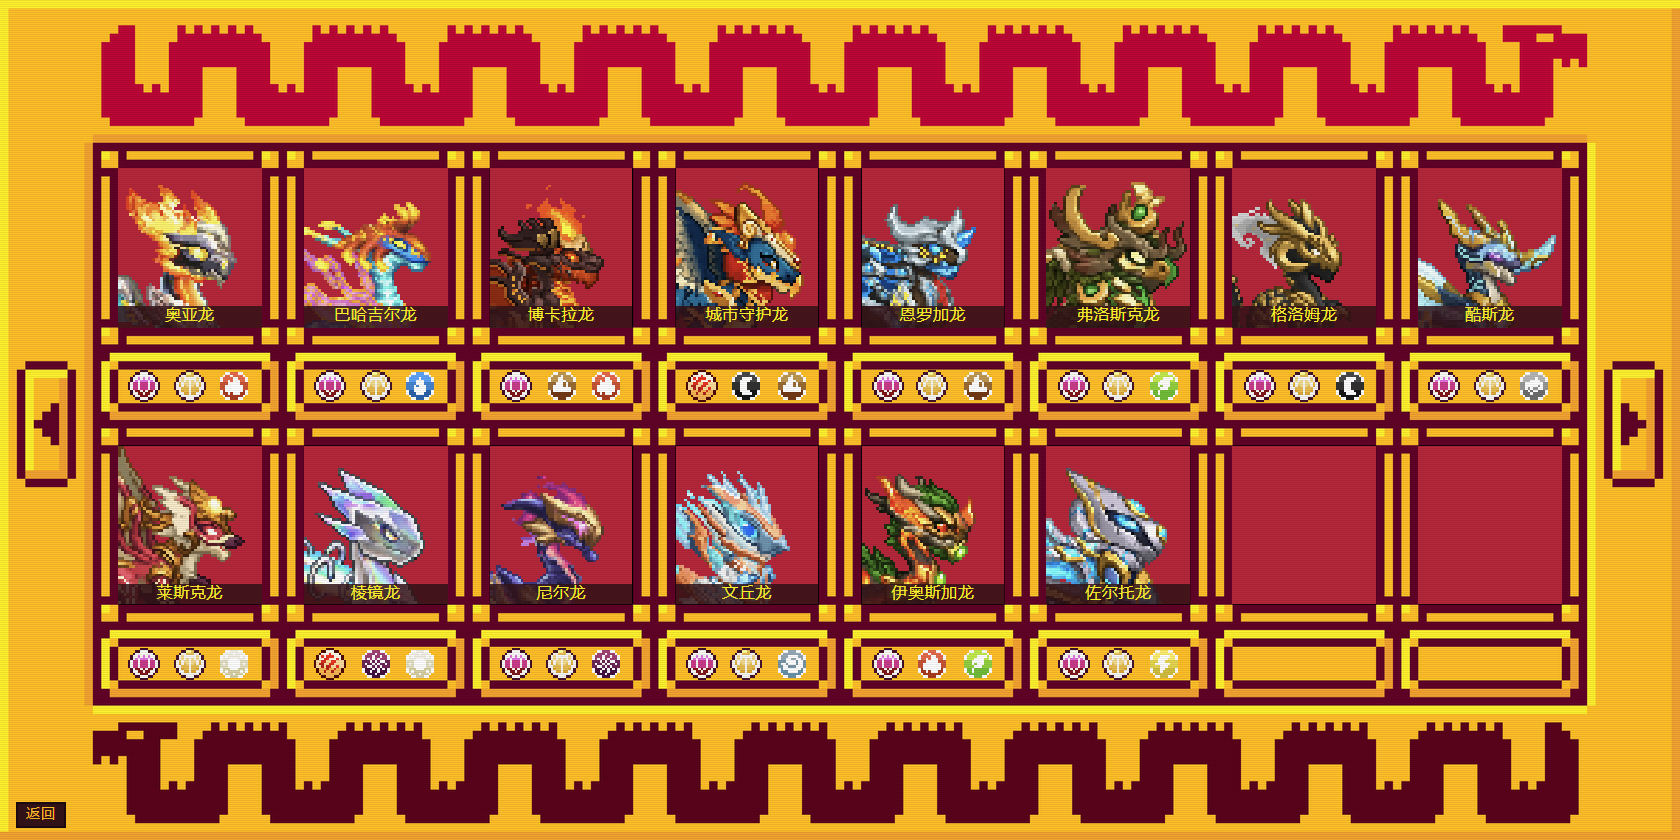
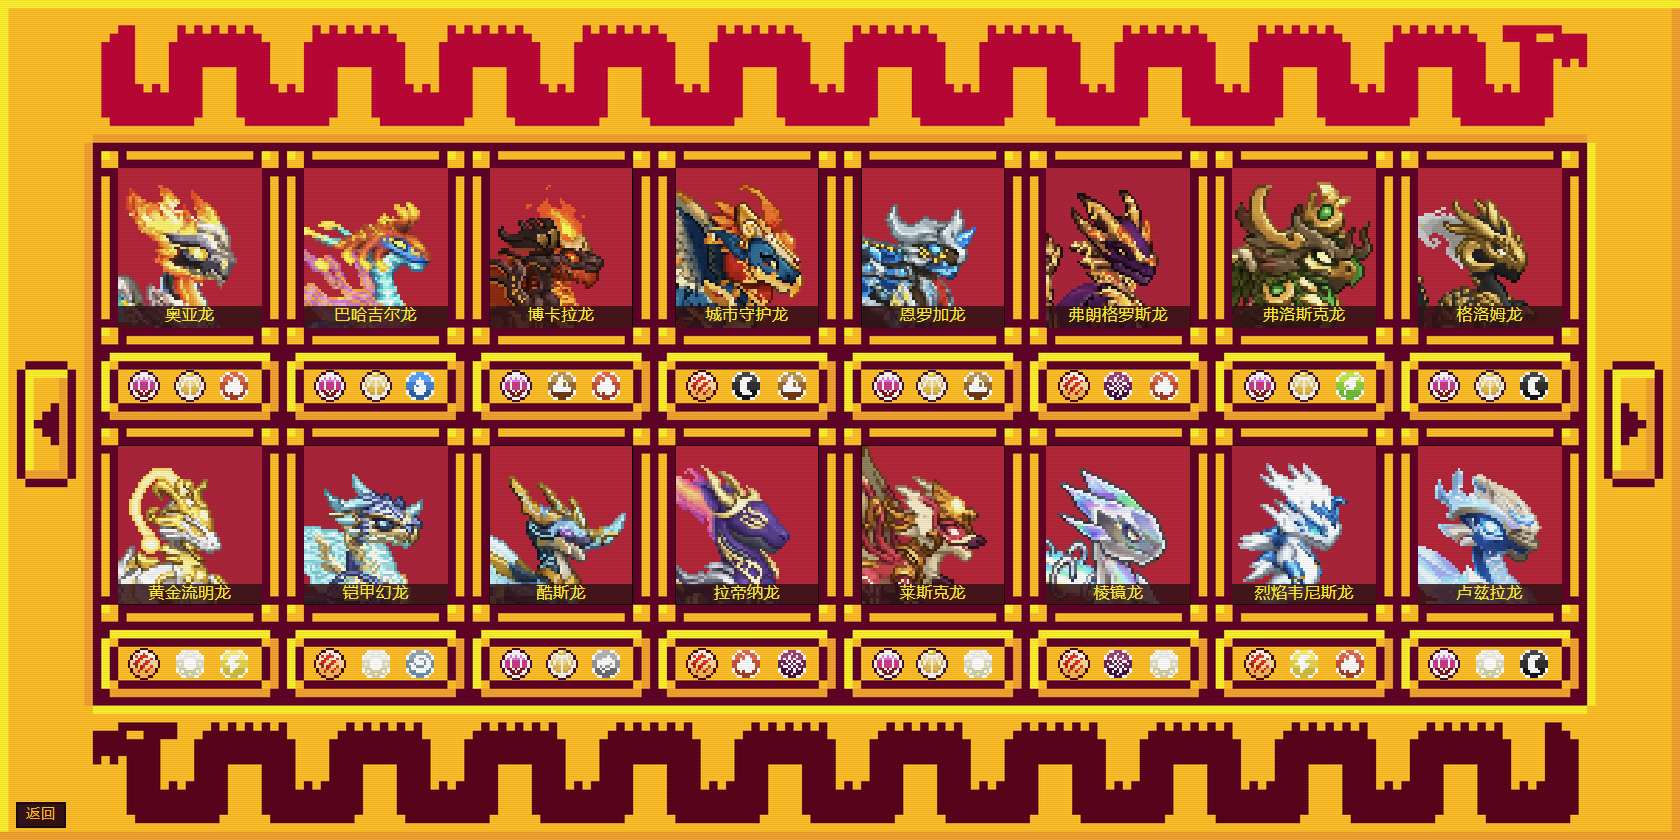
feat: 新增 10 条龙 + 按数值表逐个校准角色属性
- 新增：卢兹拉龙/索尔登龙/米格拉龙/铠甲幻龙/拉帝纳龙/乌姆布拉龙/
  烈焰韦尼斯龙/弗朗格罗斯龙/黄金流明龙/伊克斯龙（头像 + 全身图已转像素资产）
- 图鉴共 24 条，按拼音排序，2 页（第二页 8 个角色 + 8 个空位）
- 新增 src/data/stats.js：24 条龙各自的 100 级血量/攻击，直接取自数值对照表
- 曲线改为以 100 级为锚点：数值(L)=数值(100)×1.2^(L-100)，
  100 级与表 1:1 一致（24 条逐条比对全过），其它等级等比换算
- 图鉴支持 ?screen=guide&page=N
- 平衡：120 局胜率 76.7%，平均 6.5 回合

diff --git a/src/data/guide.js b/src/data/guide.js
@@ -1,27 +1,39 @@
 /* =========================================================
- * 图鉴数据
+ * 图鉴数据（同时也是管理界面的角色表）
  *
- * 每页 16 个窗口（8 列 × 2 行），空位显示「头像-空白」。
- * 排序：按名字拼音首字母（A → Z），暂时手工排好。
- * avatar 指向 assets/avatars/ 下的原生 51×57 像素图。
+ * 按名字拼音首字母排序（A → Z），暂时手工排好。
+ * avatar 指向 assets/avatars/ 下的原生 51×57 像素图，
+ * full   指向 assets/full/ 下的 420×420 全身图。
+ * level 是初始等级；血量 / 攻击按等级走成长曲线，
+ * 1 级基础值见 src/data/stats.js。
  * ========================================================= */
 const GUIDE_PER_PAGE = 16;
 
 const GUIDE_DEX = [
-  { name: '奥亚龙',     elements: ['ancient', 'holy', 'fire'],     avatar: 'assets/avatars/aoya.png', full: 'assets/full/aoya.png', level: 1 },
-  { name: '巴哈吉尔龙', elements: ['ancient', 'holy', 'water'],    avatar: 'assets/avatars/bahajier.png', full: 'assets/full/bahajier.png', level: 1 },
-  { name: '博卡拉龙',   elements: ['ancient', 'earth', 'fire'],    avatar: 'assets/avatars/bokara.png', full: 'assets/full/bokara.png', level: 100 },
-  { name: '城市守护龙', elements: ['overlord', 'dark', 'earth'],   avatar: 'assets/avatars/city.png', full: 'assets/full/city.png', level: 100 },
-  { name: '恩罗加龙',   elements: ['ancient', 'holy', 'earth'],    avatar: 'assets/avatars/enluojia.png', full: 'assets/full/enluojia.png', level: 1 },
-  { name: '弗洛斯克龙', elements: ['ancient', 'holy', 'grass'],    avatar: 'assets/avatars/fuluosike.png', full: 'assets/full/fuluosike.png', level: 1 },
-  { name: '格洛姆龙',   elements: ['ancient', 'holy', 'dark'],     avatar: 'assets/avatars/geluomu.png', full: 'assets/full/geluomu.png', level: 1 },
-  { name: '酷斯龙',     elements: ['ancient', 'holy', 'steel'],    avatar: 'assets/avatars/kusu.png', full: 'assets/full/kusu.png', level: 100 },
-  { name: '莱斯克龙',   elements: ['ancient', 'holy', 'light'],    avatar: 'assets/avatars/laiske.png', full: 'assets/full/laiske.png', level: 100 },
-  { name: '棱镜龙',     elements: ['overlord', 'void', 'light'],   avatar: 'assets/avatars/prism.png', full: 'assets/full/prism.png', level: 100 },
-  { name: '尼尔龙',     elements: ['ancient', 'holy', 'void'],     avatar: 'assets/avatars/nier.png', full: 'assets/full/nier.png', level: 1 },
-  { name: '文丘龙',     elements: ['ancient', 'holy', 'breeze'],   avatar: 'assets/avatars/wenqiu.png', full: 'assets/full/wenqiu.png', level: 1 },
-  { name: '伊奥斯加龙', elements: ['ancient', 'fire', 'grass'],    avatar: 'assets/avatars/yiao.png', full: 'assets/full/yiao.png', level: 100 },
-  { name: '佐尔托龙',   elements: ['ancient', 'holy', 'electric'], avatar: 'assets/avatars/zuoerto.png', full: 'assets/full/zuoerto.png', level: 1 },
+  { name: '奥亚龙',       elements: ['ancient', 'holy', 'fire'],       avatar: 'assets/avatars/aoya.png',            full: 'assets/full/aoya.png',            level: 100 },
+  { name: '巴哈吉尔龙',   elements: ['ancient', 'holy', 'water'],      avatar: 'assets/avatars/bahajier.png',        full: 'assets/full/bahajier.png',        level: 100 },
+  { name: '博卡拉龙',     elements: ['ancient', 'earth', 'fire'],      avatar: 'assets/avatars/bokara.png',          full: 'assets/full/bokara.png',          level: 100 },
+  { name: '城市守护龙',   elements: ['overlord', 'dark', 'earth'],     avatar: 'assets/avatars/city.png',            full: 'assets/full/city.png',            level: 100 },
+  { name: '恩罗加龙',     elements: ['ancient', 'holy', 'earth'],      avatar: 'assets/avatars/enluojia.png',        full: 'assets/full/enluojia.png',        level: 100 },
+  { name: '弗朗格罗斯龙', elements: ['overlord', 'void', 'fire'],      avatar: 'assets/avatars/fulanggeluosi.png',   full: 'assets/full/fulanggeluosi.png',   level: 100 },
+  { name: '弗洛斯克龙',   elements: ['ancient', 'holy', 'grass'],      avatar: 'assets/avatars/fuluosike.png',       full: 'assets/full/fuluosike.png',       level: 100 },
+  { name: '格洛姆龙',     elements: ['ancient', 'holy', 'dark'],       avatar: 'assets/avatars/geluomu.png',         full: 'assets/full/geluomu.png',         level: 100 },
+  { name: '黄金流明龙',   elements: ['overlord', 'light', 'electric'], avatar: 'assets/avatars/huangjinliuming.png', full: 'assets/full/huangjinliuming.png', level: 100 },
+  { name: '铠甲幻龙',     elements: ['overlord', 'light', 'breeze'],   avatar: 'assets/avatars/kaijiahuan.png',      full: 'assets/full/kaijiahuan.png',      level: 100 },
+  { name: '酷斯龙',       elements: ['ancient', 'holy', 'steel'],      avatar: 'assets/avatars/kusu.png',            full: 'assets/full/kusu.png',            level: 100 },
+  { name: '拉帝纳龙',     elements: ['overlord', 'fire', 'void'],      avatar: 'assets/avatars/ladina.png',          full: 'assets/full/ladina.png',          level: 100 },
+  { name: '莱斯克龙',     elements: ['ancient', 'holy', 'light'],      avatar: 'assets/avatars/laiske.png',          full: 'assets/full/laiske.png',          level: 100 },
+  { name: '棱镜龙',       elements: ['overlord', 'void', 'light'],     avatar: 'assets/avatars/prism.png',           full: 'assets/full/prism.png',           level: 100 },
+  { name: '烈焰韦尼斯龙', elements: ['overlord', 'electric', 'fire'],  avatar: 'assets/avatars/lieyanweinisi.png',   full: 'assets/full/lieyanweinisi.png',   level: 100 },
+  { name: '卢兹拉龙',     elements: ['ancient', 'light', 'dark'],      avatar: 'assets/avatars/luzila.png',          full: 'assets/full/luzila.png',          level: 100 },
+  { name: '米格拉龙',     elements: ['overlord', 'water', 'electric'], avatar: 'assets/avatars/migela.png',          full: 'assets/full/migela.png',          level: 100 },
+  { name: '尼尔龙',       elements: ['ancient', 'holy', 'void'],       avatar: 'assets/avatars/nier.png',            full: 'assets/full/nier.png',            level: 100 },
+  { name: '索尔登龙',     elements: ['ancient', 'earth', 'light'],     avatar: 'assets/avatars/suoerdeng.png',       full: 'assets/full/suoerdeng.png',       level: 100 },
+  { name: '文丘龙',       elements: ['ancient', 'holy', 'breeze'],     avatar: 'assets/avatars/wenqiu.png',          full: 'assets/full/wenqiu.png',          level: 100 },
+  { name: '乌姆布拉龙',   elements: ['overlord', 'fire', 'electric'],  avatar: 'assets/avatars/wumubula.png',        full: 'assets/full/wumubula.png',        level: 100 },
+  { name: '伊奥斯加龙',   elements: ['ancient', 'fire', 'grass'],      avatar: 'assets/avatars/yiao.png',            full: 'assets/full/yiao.png',            level: 100 },
+  { name: '伊克斯龙',     elements: ['ancient', 'electric', 'fire'],   avatar: 'assets/avatars/yikesi.png',          full: 'assets/full/yikesi.png',          level: 100 },
+  { name: '佐尔托龙',     elements: ['ancient', 'holy', 'electric'],   avatar: 'assets/avatars/zuoerto.png',         full: 'assets/full/zuoerto.png',         level: 100 },
 ];
 
 const GUIDE_BLANK_AVATAR = 'assets/avatars/blank.png';

diff --git a/src/data/stats.js b/src/data/stats.js
@@ -1,0 +1,40 @@
+/* =========================================================
+ * 角色数值（100 级）
+ *
+ * 数据直接来自「数值对照表.txt」，每个角色一对 100 级血量/攻击。
+ * 其它等级由成长曲线换算：
+ *   数值(L) = 数值(100) × 1.2^(L-100)
+ *
+ * 曲线本身见 src/data/curve.js。
+ * ========================================================= */
+const CHAR_BASE = {
+  /* ---- 玩家可上阵的 6 条 ---- */
+  '酷斯龙':       { hp100: 20014343843, atk100: 6211348089 },
+  '博卡拉龙':     { hp100: 19945328865, atk100: 6142333110 },
+  '棱镜龙':       { hp100: 20359418737, atk100: 5866273195 },
+  '莱斯克龙':     { hp100: 20014343843, atk100: 6211348089 },
+  '伊奥斯加龙':   { hp100: 19945328865, atk100: 6142333110 },
+  '城市守护龙':   { hp100: 20566463673, atk100: 6211348089 },
+
+  /* ---- 第二批（8 条） ---- */
+  '佐尔托龙':     { hp100: 20014343843, atk100: 6211348089 },
+  '文丘龙':       { hp100: 20014343843, atk100: 6211348089 },
+  '巴哈吉尔龙':   { hp100: 20014343843, atk100: 6211348089 },
+  '恩罗加龙':     { hp100: 20014343843, atk100: 6211348089 },
+  '格洛姆龙':     { hp100: 20014343843, atk100: 6211348089 },
+  '弗洛斯克龙':   { hp100: 20014343843, atk100: 6211348089 },
+  '尼尔龙':       { hp100: 20014343843, atk100: 6211348089 },
+  '奥亚龙':       { hp100: 20014343843, atk100: 6211348089 },
+
+  /* ---- 第三批（10 条） ---- */
+  '卢兹拉龙':     { hp100: 19738283928, atk100: 5935288174 },
+  '索尔登龙':     { hp100: 19945328865, atk100: 6142333110 },
+  '米格拉龙':     { hp100: 19738283928, atk100: 6004303153 },
+  '铠甲幻龙':     { hp100: 20152373801, atk100: 5866273195 },
+  '拉帝纳龙':     { hp100: 19945328865, atk100: 6142333110 },
+  '乌姆布拉龙':   { hp100: 20221388780, atk100: 5935288174 },
+  '烈焰韦尼斯龙': { hp100: 19738283928, atk100: 6004303153 },
+  '弗朗格罗斯龙': { hp100: 20014343843, atk100: 5866273195 },
+  '黄金流明龙':   { hp100: 20014343843, atk100: 6004303153 },
+  '伊克斯龙':     { hp100: 19738283928, atk100: 5935288174 }
+};

diff --git a/src/data/curve.js b/src/data/curve.js
@@ -1,32 +1,36 @@
 /* =========================================================
  * 成长曲线
  *
- * 由「角色等级数值表」拟合得出：数值严格按 1.2 的等比增长
- *   数值(L) = 基础值 × 1.2^(L-1)
- * 拟合误差在 0.001% 以内（L10 那一行有取整噪声）。
+ * 由「等级数值表」拟合得出：数值严格按 1.2 的等比增长
+ *   数值(L) = 数值(100) × 1.2^(L-100)
  *
- * 表里两列同时命中同一条曲线：
- *   血量 1 级 255 → 100 级 17,598,819,586
- *   攻击 1 级  82 → 100 级  5,659,228,259
- * 攻血比恒为 3.1098，所以同级对局的击杀手数在任何等级都一样。
+ * 表里两列同时命中同一条曲线（拟合误差 < 0.001%）。
+ * 因为表给的是 100 级数据，这里直接以 100 级为锚点，
+ * 这样 100 级能 1:1 复现表里的数字，不用反推基础值。
  *
+ * 攻血比恒定在 3.1 左右，所以同级对局的击杀手数在任何等级都一样。
  * 注意：双精度整数上限 2^53 ≈ 9.0e15，本曲线到 Lv172 左右会溢出。
  * ========================================================= */
 const CURVE = {
-  hp1: 255,
-  atk1: 82,
   k: 1.2,
-  maxLevel: 170          /* 超过这个等级双精度会失真，先挡一下 */
+  refLevel: 100,
+  maxLevel: 170
 };
 
-function curveStat(base, level) {
+function curveValue(v100, level) {
   var lv = Math.max(1, Math.min(CURVE.maxLevel, Math.floor(level || 1)));
-  return Math.round(base * Math.pow(CURVE.k, lv - 1));
+  return Math.round(v100 * Math.pow(CURVE.k, lv - CURVE.refLevel));
 }
 
-function curveStats(level) {
+/* hp100 / atk100 传角色 100 级的血量与攻击 */
+function curveStats(level, hp100, atk100) {
   return {
-    hp: curveStat(CURVE.hp1, level),
-    atk: curveStat(CURVE.atk1, level)
+    hp: curveValue(hp100, level),
+    atk: curveValue(atk100, level)
   };
+}
+
+/* 从 1 级基础值算（等价写法，留作参考） */
+function curveStat(base1, level) {
+  return Math.round(base1 * Math.pow(CURVE.k, Math.max(1, level) - 1));
 }

diff --git a/src/engine/battle.js b/src/engine/battle.js
@@ -779,7 +779,10 @@ const Battle = (function () {
     const lv = (typeof PlayerState !== 'undefined')
       ? PlayerState.entry(tpl.name, tpl.level).level
       : tpl.level;
-    const cs = (typeof curveStats === 'function') ? curveStats(lv) : null;
+    const base = (typeof CHAR_BASE !== 'undefined') ? CHAR_BASE[tpl.name] : null;
+    const cs = (typeof curveStats === 'function')
+      ? curveStats(lv, base && base.hp100, base && base.atk100)
+      : null;
     return {
       uid: (side === 'ally' ? 'p' : 'e') + slot,
       side,

diff --git a/src/ui/guide.js b/src/ui/guide.js
@@ -83,8 +83,11 @@ const Guide = (function () {
     if (next) next.disabled = page >= pageCount() - 1;
   }
 
-  function open() {
+  function open(startPage) {
     page = 0;
+    if (startPage != null && !isNaN(startPage)) {
+      page = Math.max(0, Math.min(pageCount() - 1, Math.floor(startPage)));
+    }
     render();
     var s = el('guideScreen');
     if (s) s.classList.remove('hidden');

diff --git a/index.html b/index.html
@@ -128,6 +128,7 @@
 <script defer src="./src/data/elements.js"></script>
 <script defer src="./src/data/statuses.js"></script>
 <script defer src="./src/data/skills.js"></script>
+<script defer src="./src/data/stats.js"></script>
 <script defer src="./src/data/curve.js"></script>
 <script defer src="./src/data/state.js"></script>
 <script defer src="./src/data/characters.js"></script>

diff --git a/src/main.js b/src/main.js
@@ -264,7 +264,7 @@
       Manage.open(Number(params.get('page')) || 0);
       showGrowth(params.get('label') || '升 级', null);
     } else if (screen === 'guide') {
-      Guide.open();
+      Guide.open(Number(params.get('page')) || 0);
     } else if (screen === 'manage') {
       Manage.open(Number(params.get('page')) || 0);
     } else if (params.get('auto') === '1') {

diff --git a/tools/sim.js b/tools/sim.js
@@ -14,6 +14,7 @@ const FILES = [
   'src/data/elements.js',
   'src/data/statuses.js',
   'src/data/skills.js',
+  'src/data/stats.js',
   'src/data/curve.js',
   'src/data/state.js',
   'src/data/characters.js',
